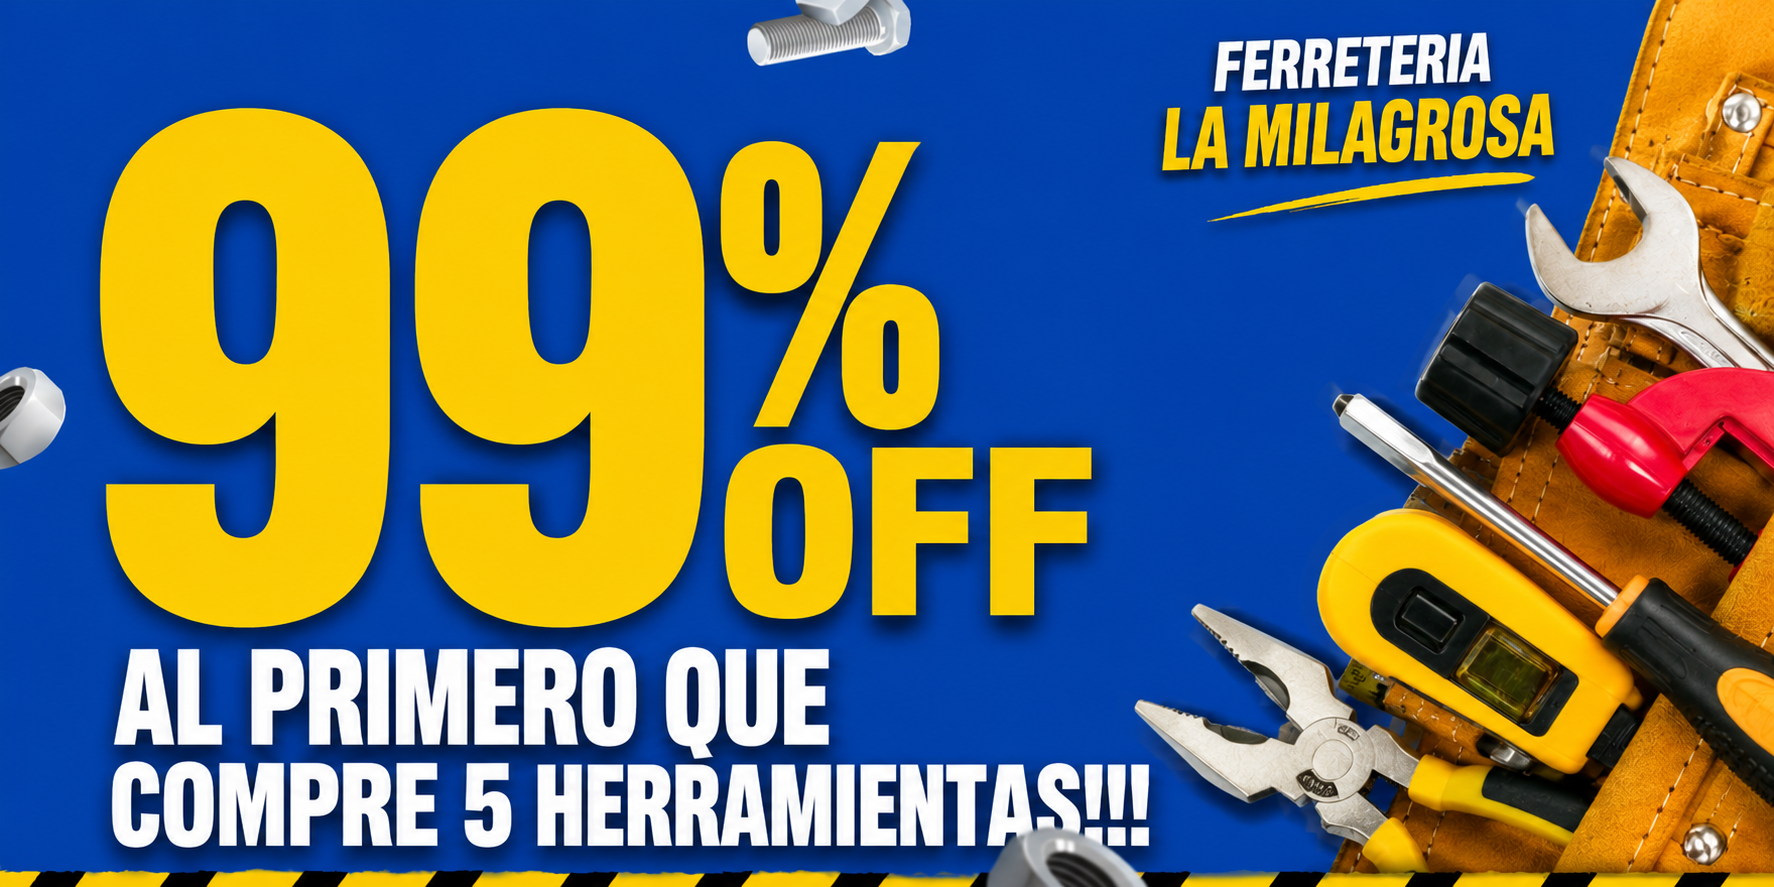
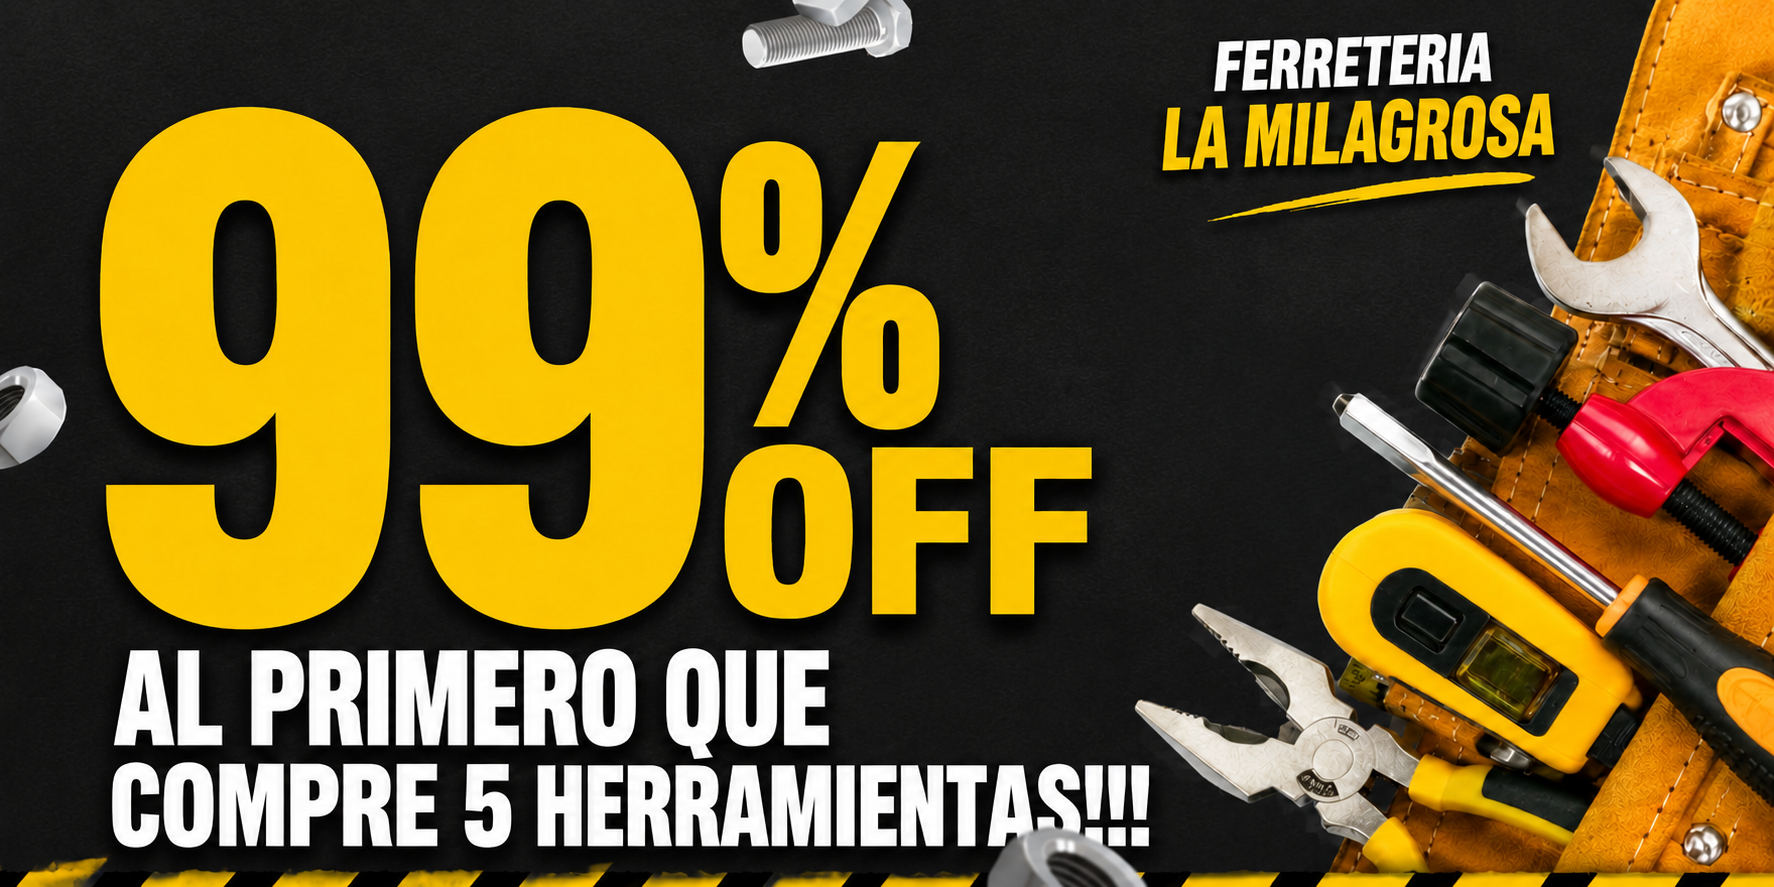
index

diff --git a/menu/estilos.css b/menu/estilos.css
@@ -6,19 +6,19 @@
 }
 
 :root {
-  --bg-dark: #0f172a;
-  --bg-card: #1e293b;
+  --bg-dark: #555554;
+  --bg-card: #c0b522;
   --text-main: #f8fafc;
-  --text-muted: #94a3b8;
+  --text-muted: #d8d8da;
   --accent-gold: #d97706;
   --accent-hover: #fbbf24;
-  --border-color: rgba(255, 255, 255, 0.08);
+  --border-color: rgba(255, 255, 255, 0.795);
 }
 
 body {
   background-color: #e3e8eb;
   background-image: 
-    linear-gradient(rgb(253, 254, 255), rgb(223, 221, 221), rgb(14, 66, 179)), 
+    linear-gradient(rgb(253, 254, 255), rgb(170, 170, 170), rgb(94, 94, 94)), 
     url('pulidora.jpg');
   background-repeat: no-repeat;
   background-size: cover;
@@ -38,6 +38,7 @@ p.parrafo-slider {
 hr {
   border: none;
   border-top: 5px dashed #0f0f0f;
+  box-shadow:black ;
 }
 
 /* ================= HEADER (PC Y ESCRITORIO) ================= */
@@ -76,7 +77,7 @@ hr {
   width: 65px;
   height: 65px;
   border-radius: 50%;
-  border: 3px solid #083347;
+  border: 3px solid #cabd0b;
   object-fit: cover;
   display: block;
 }
@@ -125,7 +126,7 @@ hr {
 
 .dropdown-menu li a:hover {
   background-color: #f1f1f1;
-  color: #104568;
+  color: #6b6f72;
 }
 
 .dropdown-menu.show {
@@ -196,33 +197,35 @@ hr {
   width: 100%;
   max-width: 1400px;
   margin: 30px auto;
+  padding: 0 20px;
 }
 
 .slider-viewport {
   width: 100%;
   overflow: hidden;
+  border-radius: 12px;
 }
 
 .slider-track {
   display: flex;
+  width: 100%;
   gap: 20px;
-  padding: 0; /* Removido el padding que descentraba la diapositiva */
   will-change: transform;
 }
 
 .slide {
-  flex: 0 0 70%; /* Tamaño ajustado para balance visual en pantalla */
+  flex: 0 0 70%;
+  max-width: 100%;
   height: 420px;
   border-radius: 12px;
   overflow: hidden;
-  box-shadow: 0 4px 15px rgba(0, 0, 0, 0.08);
+  box-shadow: 0 4px 15px rgba(0, 0, 0, 0.2);
   border: none;
   padding: 0;
   margin: 0;
   cursor: pointer;
   outline: none;
-  background: transparent;
-  background-color: #007bff;
+  background-color: #55575a;
 }
 
 .slide img {
@@ -236,28 +239,30 @@ hr {
   position: absolute;
   top: 50%;
   transform: translateY(-50%);
-  background-color: #ffffff;
-  color: #0400f1;
-  border: 1px solid #ddd;
+  background-color: rgba(75, 76, 77, 0.85);
+  color: #ffffff;
+  border: 1px solid rgba(168, 167, 167, 0.85);
   font-size: 18px;
   width: 44px;
   height: 44px;
   border-radius: 50%;
   cursor: pointer;
   z-index: 20;
-  box-shadow: 0 4px 10px rgba(0, 0, 0, 0.15);
+  box-shadow: 0 4px 10px rgba(0, 0, 0,0.20);
   display: flex;
   align-items: center;
   justify-content: center;
-  transition: transform 0.2s;
+  transition: all 0.2s ease;
 }
 
 .arrow:hover {
+  background-color: rgb(8, 8, 8,0.80);
+  color: #fbbf24;
   transform: translateY(-50%) scale(1.1);
 }
 
-.arrow-left { left: 15px; }
-.arrow-right { right: 15px; }
+.arrow-left { left: 30px; }
+.arrow-right { right: 30px; }
 
 .dots-container {
   display: flex;
@@ -267,8 +272,8 @@ hr {
 }
 
 .dot {
-  width: 8px;
-  height: 8px;
+  width: 10px;
+  height: 10px;
   background-color: #ccc;
   border-radius: 50%;
   cursor: pointer;
@@ -276,7 +281,7 @@ hr {
 }
 
 .dot.active {
-  background-color: #0e3a53;
+  background-color: #fde507;
   transform: scale(1.3);
 }
 
@@ -286,6 +291,7 @@ hr {
   max-width: 1400px;
   margin: 20px auto 50px;
   padding: 10px 40px;
+  box-shadow: 0 0px 10px rgba(0, 0, 0, 0.5);
 }
 
 .mini-slider-viewport {
@@ -303,7 +309,7 @@ hr {
 .mini-box {
   flex: 0 0 calc((100% - (15px * 4)) / 5);
   min-height: 200px;
-  background-color: #ffffff;
+  background-color: rgba(105, 105, 105, 0.973);
   border: 1px solid #e2e8f0;
   border-radius: 12px;
   padding: 12px;
@@ -313,7 +319,7 @@ hr {
   justify-content: space-between;
   gap: 10px;
   text-decoration: none;
-  box-shadow: 0 2px 6px rgba(0, 0, 0, 0.06);
+  box-shadow: 0 0px 10px rgb(70, 70, 70);
   transition: transform 0.3s cubic-bezier(0.25, 1, 0.5, 1), 
               background-color 0.3s ease, 
               box-shadow 0.3s ease, 
@@ -343,7 +349,7 @@ hr {
 .mini-box-title {
   font-size: 0.85rem;
   font-weight: 700;
-  color: #083347;
+  color: #ffffff;
   text-align: center;
   line-height: 1.25;
   transition: color 0.3s ease;
@@ -356,14 +362,14 @@ hr {
 }
 
 .mini-box:hover {
-  background-color: #083347;
-  border-color: #083347;
-  transform: translateY(-8px);
-  box-shadow: 0 12px 24px rgba(8, 51, 71, 0.25);
+  background-color: #dbdbdb;
+  border-color: #f5b056;
+  transform: translateY(0px);
+  box-shadow: 0 10px 20px rgb(255, 251, 23);
 }
 
 .mini-box:hover .mini-box-title {
-  color: #ffffff;
+  color: #d49c00;
 }
 
 .mini-box:hover .mini-box-img img {
@@ -375,7 +381,7 @@ hr {
   top: 50%;
   transform: translateY(-50%);
   background-color: #ffffff;
-  color: #083347;
+  color: #010405;
   border: 1px solid #ddd;
   font-size: 14px;
   width: 34px;
@@ -383,7 +389,7 @@ hr {
   border-radius: 50%;
   cursor: pointer;
   z-index: 10;
-  box-shadow: 0 2px 6px rgba(0,0,0,0.12);
+  box-shadow: 0 2px 15px rgb(212, 210, 208);
   display: flex;
   align-items: center;
   justify-content: center;
@@ -391,9 +397,10 @@ hr {
 }
 
 .mini-arrow:hover {
-  background-color: #083347;
-  color: #ffffff;
+  background-color: #ffdd1d;
+  color: #ff821c;
   transform: translateY(-50%) scale(1.1);
+   box-shadow: 0 2px 8px rgb(238, 123, 7);
 }
 
 .mini-arrow-left { left: 0; }
@@ -601,7 +608,6 @@ hr {
 }
 
 @media (max-width: 768px) {
-  /* Reorganización en capas del Header */
   .header-main {
     padding: 10px 15px;
   }
@@ -614,7 +620,6 @@ hr {
     gap: 10px 0;
   }
 
-  /* Capa 1: Logo y Menú en la parte superior */
   .logo-container {
     order: 1;
   }
@@ -633,7 +638,6 @@ hr {
     font-size: 0.9rem;
   }
 
-  /* Capa 2: Buscador ancho completo */
   .search-box {
     order: 3;
     width: 100%;
@@ -641,7 +645,6 @@ hr {
     margin-top: 2px;
   }
 
-  /* Capa 3: Navegación de usuario horizontal */
   .header-links {
     order: 4;
     width: 100%;
@@ -661,20 +664,18 @@ hr {
     padding: 6px 5px;
   }
 
-  /* Sliders */
   .slider-track {
     padding: 0;
   }
 
   .slide {
-    flex: 0 0 100%;
+    flex: 0 0 70%;
     height: 230px;
   }
 
-  .arrow-left { left: 5px; }
-  .arrow-right { right: 5px; }
+  .arrow-left { left: 10px; }
+  .arrow-right { right: 10px; }
 
-  /* Contenido general y Footer */
   .caja-publicidad {
     flex-direction: column;
   }

diff --git a/index.html b/index.html
@@ -167,10 +167,10 @@
 
 <section class="caja-publicidad">
   <div class="banner-publicidad">
-    <img src="menu/slider1.1.png" alt="Publicidad 1">
+    <img src="menu/imagen5.png" alt="Publicidad 1">
   </div>
   <div class="banner-publicidad">
-    <img src="menu/slider2.png" alt="Publicidad 2">
+    <img src="menu/imagen6.png" alt="Publicidad 2">
   </div>
 </section>
 
